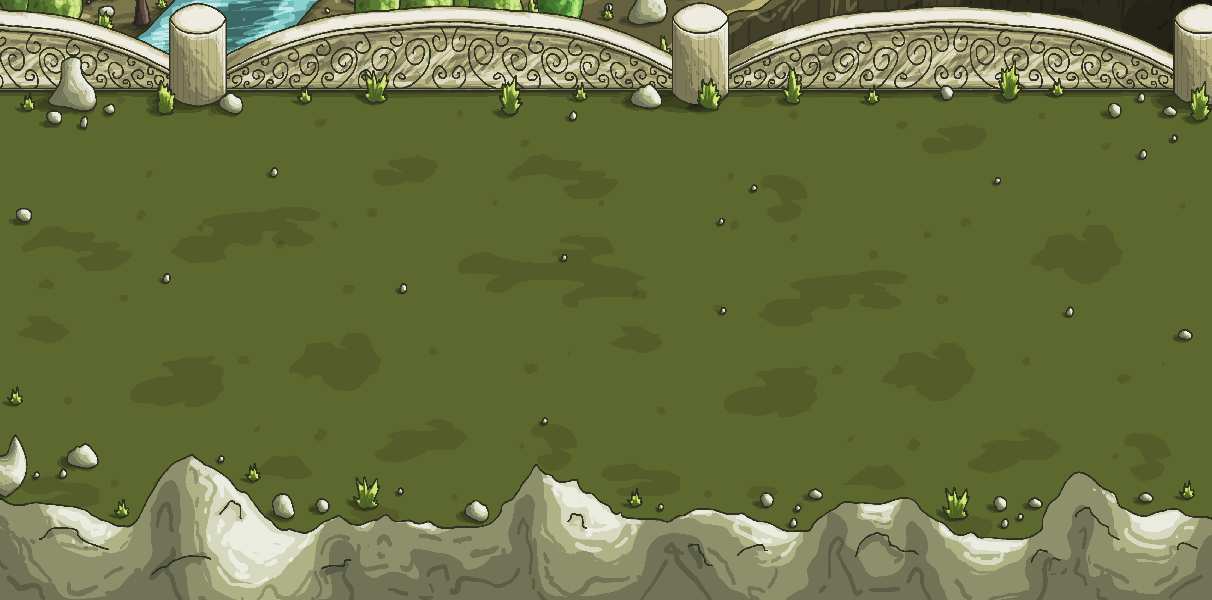
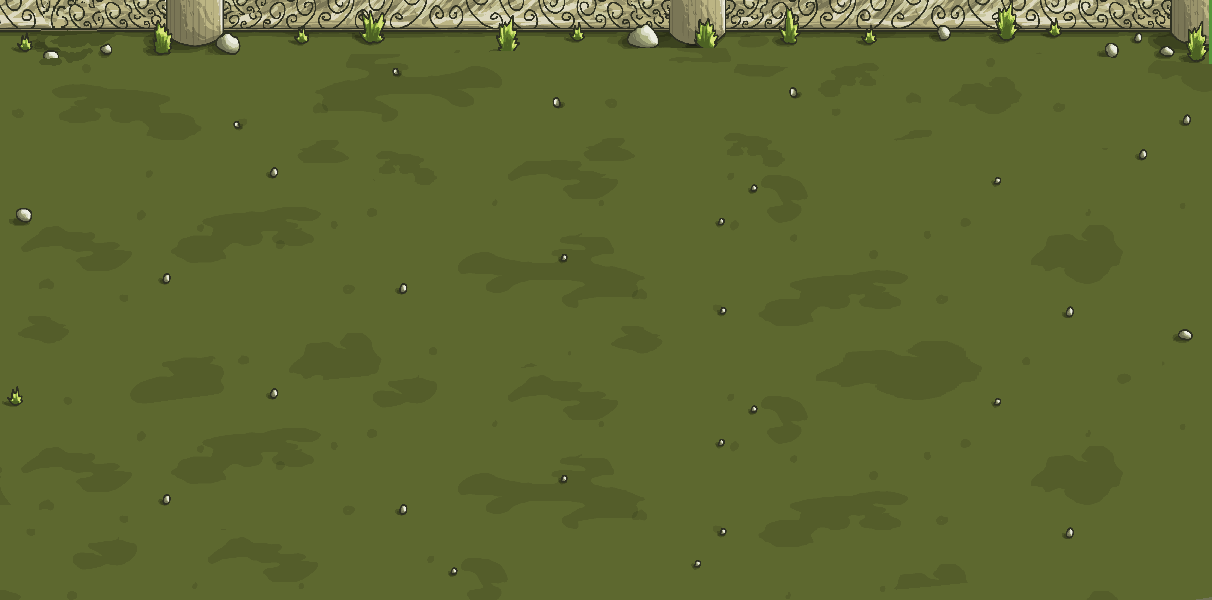
commit

diff --git a/index.js b/index.js
@@ -4,13 +4,8 @@ const ctx = canvas.getContext('2d');
 canvas.width = 900;
 canvas.height = 600;
 
-
-function drawBG() {
-  const background = new Image();
-  background.src = './assets/images/bg.png';
-  ctx.drawImage(background, 0, 60);
-}
- 
+const background = new Image();
+background.src = './assets/images/bg.png';
 
 const cellSize = 100;
 const cellGap = 3;
@@ -115,7 +110,6 @@ function createGrid(){
     }
 }
 
-
 createGrid();
 
 //-------------------------------------------
@@ -130,15 +124,14 @@ function handleGameGrid(){
 const projectileTypes = [];
 const proj_0 = new Image();
 proj_0.src = './assets/images/projectiles/proj_0.png';
-projectileTypes.push(proj_0);
 
 const proj_1 = new Image();
 proj_1.src = './assets/images/projectiles/proj_1.png';
-projectileTypes.push(proj_1);
-
+ 
 const proj_2 = new Image();
 proj_2.src = './assets/images/projectiles/proj_2.png';
-projectileTypes.push(proj_2);
+
+projectileTypes.push(proj_0, proj_1, proj_2);
 
 //--------------------------------------------
 
@@ -169,7 +162,6 @@ class Projectile {
 
 
 //-------------------------
-
 function handleProjectiles(){
     for (let i = 0; i < projectiles.length; i++){
         projectiles[i].update();
@@ -348,8 +340,8 @@ const card_2 = {
     height: 85,
     colorStroke: 'black'
 }
-//------------------------------------------------------------------
 
+//------------------------------------------------------------------
 function manageDefenders(){
     ctx.linewidth = 1;
     ctx.fillStyle = 'rgba(0,0,0,0.2)';
@@ -396,8 +388,6 @@ function manageDefenders(){
     ctx.strokeRect(card_2.x, card_2.y, card_2.width, card_2.height)
     ctx.drawImage(defenderTypes[2], 0, 0, 64, 64, 160, 5, 85, 85);
 }
-
-
 
 
 //-------------------------------enemy------------------------------
@@ -458,7 +448,7 @@ class Enemy {
     draw(){
         // ctx.fillStyle = 'red';
         // ctx.fillRect(this.x, this.y, this.width, this.height);
-        ctx.fillStyle = 'darkred';
+        ctx.fillStyle = 'red';
         ctx.font = '20px MedievalSharp';
         ctx.fillText(Math.floor(this.health), this.x, (this.y+20));
         //img, sx, sy, sw, sh, dx, dy, dw, dh
@@ -474,8 +464,6 @@ class Enemy {
 
 // enemyTypes.push(raider, gladiator);
  
- 
-
 //-------------------------------------------
 function handleEnemies(){
     for (let i = 0; i < enemies.length; i++){
@@ -542,6 +530,7 @@ fruit_5.src = './assets/images/collectables/fruit_5.png';
 
 const fruit_6 = new Image();
 fruit_6.src = './assets/images/collectables/fruit_6.png';
+
 fruitTypes.push(fruit_0,fruit_1,fruit_2,fruit_3,fruit_4, fruit_5, fruit_6);
 
 class Resource {
@@ -611,9 +600,7 @@ function handleGameStatus(){
         ctx.fillText("Your score is: " + score, 100, 340);
 
         gameWon = true;
-    }
-
-     
+    }   
 }
  
 //--------------------------floating message-------------------------
@@ -676,7 +663,7 @@ canvas.addEventListener('click', function(){
         defenders.push(new Defender(gridPositionX, gridPositionY, 100, "ranged", 1));
         numberOfResources -= 200;
     } else if (selectedUnit === 2 && numberOfResources >= 120){
-        defenders.push(new Defender(gridPositionX, gridPositionY, 200, "melee", 1));
+        defenders.push(new Defender(gridPositionX, gridPositionY, 250, "melee", 1));
         numberOfResources -= 120;
     } else {
         floatingMessages.push(new floatingMessage('Not enough essence!', mouse.x, mouse.y, 20, 'blue'));
@@ -686,10 +673,10 @@ canvas.addEventListener('click', function(){
 
 //-----------------------------collisions-----------------------------
 function collision(first, second){
-    if (    !(first.x > second.x + second.width ||
-             first.x + first.width < second.x  ||  
-             first.y > second.y + second.height  || 
-             first.y + first.height < second.y)
+    if (    !(first.x >= second.x + second.width ||
+             first.x + first.width <= second.x  ||  
+             first.y >= second.y + second.height  || 
+             first.y + first.height <= second.y)
     ) {
         return true;
     }    
@@ -711,8 +698,8 @@ function debug(data){
 function animate(){
     ctx.clearRect(0, 0, canvas.width, canvas.height);
     ctx.fillStyle = '#354259';
-    drawBG();
-    
+    ctx.drawImage(background, 0, 60);
+
     // console.log(enemiesInterval)
     ctx.fillRect(0, 0, controlsBar.width, controlsBar.height);
     handleGameGrid();
@@ -732,8 +719,15 @@ function animate(){
         document.getElementById("btnNext").style.display = "none";
     }
 
+
+    if(gameOver){
+        document.getElementById("btnRestart").style.display = "none";
+    } else {
+        document.getElementById("btnRestart").style.display = "flex";
+    }
+
     // console.log(gameWon)
-    if (! gameOver) requestAnimationFrame(animate);
+    if (! gameOver) {requestAnimationFrame(animate)};
 }
  
 animate();

diff --git a/style.css b/style.css
@@ -1,5 +1,6 @@
 body {
-    background: black;
+    background: black; 
+    font-family: 'MedievalSharp', cursive;
 }
 
 
@@ -25,6 +26,7 @@ body {
     align-items: center;
     justify-content: center;  
     z-index: 10;
+    cursor: pointer;
 }
 
 #btnRestart {
@@ -39,6 +41,7 @@ body {
     align-items: center;
     justify-content: center;  
     z-index: 10;
+    cursor: pointer;
 }
 
 #canvas__main {
@@ -49,6 +52,5 @@ body {
     width: 900px;
     height: 600px;
     background: rgb(99, 108, 104);
-    font-family: 'MedievalSharp', cursive;
     z-index: 9;
 }
